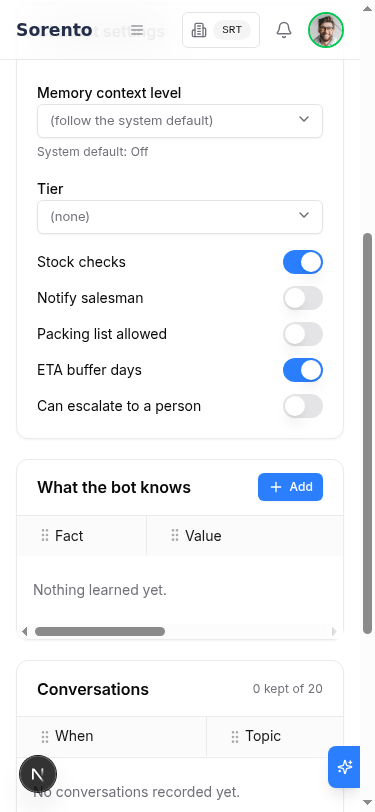
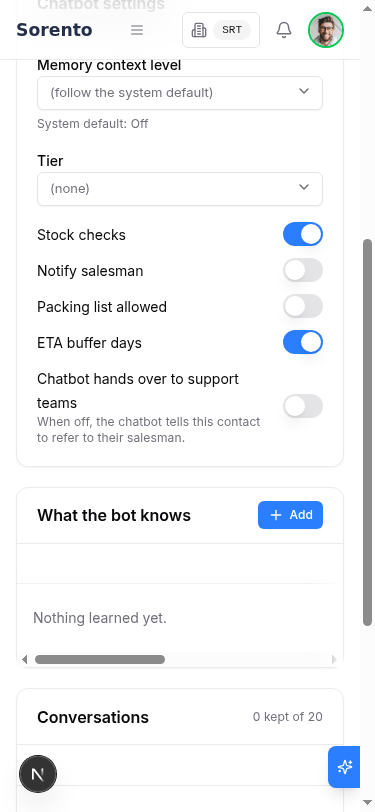
feat(chatbot): switch reads "Chatbot hands over to support teams" with the owner-approved helper text
Owner hand test of #1406 (1 Oct 2026): behaviour PASS; "Can escalate to a person" read
oddly, since referring to the salesman is also an escalation. Label and helper only, no
behaviour change: SwitchRow gains an optional hint line in the card's helper-text style.
Tests, plan, script and browser evidence (1280, 375) follow the new wording.

Claude-Session: https://claude.ai/code/session_01ScvJc6pUJehmgpENkPLwCa

diff --git a/sorento_crm_frontend/app/(protected)/user-management/contacts/[id]/components/ContactChatbotSection.test.tsx b/sorento_crm_frontend/app/(protected)/user-management/contacts/[id]/components/ContactChatbotSection.test.tsx
@@ -270,14 +270,24 @@ describe('ContactChatbotSection - ETA buffer days switch (#1328)', () => {
 });
 
 /**
- * ESCALATION-CONTROL (owner change, 30 Sep 2026): one per-contact switch, "Can escalate to
- * a person", default on; access types no longer decide it.
+ * ESCALATION-CONTROL (owner change, 30 Sep 2026): one per-contact switch, "Chatbot hands
+ * over to support teams" (owner-approved label, 1 Oct 2026), default on; access types no
+ * longer decide it.
  */
-describe('ContactChatbotSection - Can escalate to a person switch', () => {
+describe('ContactChatbotSection - Chatbot hands over to support teams switch', () => {
+  it('shows the owner-approved helper text under the switch', () => {
+    useContactChatbotProfile.mockReturnValue({ data: BASE_PROFILE, isLoading: false, isError: false });
+    renderWithClient(<ContactChatbotSection contactId="c1" />);
+    expect(
+      screen.getByText('When off, the chatbot tells this contact to refer to their salesman.'),
+    ).toBeInTheDocument();
+    expect(screen.queryByText('Can escalate to a person')).not.toBeInTheDocument();
+  });
+
   it('renders checked for a contact that may escalate', () => {
     useContactChatbotProfile.mockReturnValue({ data: BASE_PROFILE, isLoading: false, isError: false });
     renderWithClient(<ContactChatbotSection contactId="c1" />);
-    expect(screen.getByLabelText('Can escalate to a person')).toHaveAttribute('data-state', 'checked');
+    expect(screen.getByLabelText('Chatbot hands over to support teams')).toHaveAttribute('data-state', 'checked');
   });
 
   it('renders unchecked for a blocked contact', () => {
@@ -287,13 +297,13 @@ describe('ContactChatbotSection - Can escalate to a person switch', () => {
       isError: false,
     });
     renderWithClient(<ContactChatbotSection contactId="c1" />);
-    expect(screen.getByLabelText('Can escalate to a person')).toHaveAttribute('data-state', 'unchecked');
+    expect(screen.getByLabelText('Chatbot hands over to support teams')).toHaveAttribute('data-state', 'unchecked');
   });
 
   it('unticking saves through its own mutation, never the card save (security review S3)', () => {
     useContactChatbotProfile.mockReturnValue({ data: BASE_PROFILE, isLoading: false, isError: false });
     renderWithClient(<ContactChatbotSection contactId="c1" />);
-    fireEvent.click(screen.getByLabelText('Can escalate to a person'));
+    fireEvent.click(screen.getByLabelText('Chatbot hands over to support teams'));
     expect(escalationMutate).toHaveBeenCalledTimes(1);
     expect(escalationMutate.mock.calls[0][0]).toBe(false);
     expect(mutate).not.toHaveBeenCalled();

diff --git a/sorento_crm_frontend/app/(protected)/user-management/contacts/[id]/components/ContactChatbotSection.tsx b/sorento_crm_frontend/app/(protected)/user-management/contacts/[id]/components/ContactChatbotSection.tsx
@@ -96,21 +96,27 @@ const TIER_OPTIONS = [
 function SwitchRow({
   id,
   label,
+  hint,
   checked,
   disabled,
   onCheckedChange,
 }: {
   id: string;
   label: string;
+  /** One line under the label, the card's helper-text style. */
+  hint?: string;
   checked: boolean;
   disabled?: boolean;
   onCheckedChange: (checked: boolean) => void;
 }) {
   return (
     <div className="flex items-center justify-between gap-4">
-      <Label htmlFor={id} className="cursor-pointer font-normal">
-        {label}
-      </Label>
+      <div className="space-y-0.5">
+        <Label htmlFor={id} className="cursor-pointer font-normal">
+          {label}
+        </Label>
+        {hint ? <p className="text-xs text-muted-foreground">{hint}</p> : null}
+      </div>
       <Switch
         id={id}
         checked={checked}
@@ -232,7 +238,9 @@ function ChatbotSettingsCard({
           />
           <SwitchRow
             id="contact-chatbot-escalation"
-            label="Can escalate to a person"
+            label="Chatbot hands over to support teams"
+            // Owner-approved wording (1 Oct 2026, hand test of #1406).
+            hint="When off, the chatbot tells this contact to refer to their salesman."
             checked={profile.escalation_allowed}
             disabled={save.isPending || saveEscalation.isPending}
             onCheckedChange={(checked) => saveEscalation.mutate(checked)}

diff --git a/sorento_crm_frontend/app/(protected)/user-management/contacts/[id]/services/contactChatbotService.ts b/sorento_crm_frontend/app/(protected)/user-management/contacts/[id]/services/contactChatbotService.ts
@@ -213,7 +213,7 @@ export async function saveContactChatbotProfile(
 }
 
 /**
- * ESCALATION-CONTROL: "Can escalate to a person", saved on its own - the body carries this
+ * ESCALATION-CONTROL: "Chatbot hands over to support teams", saved on its own - the body carries this
  * one key, and the route leaves every field it does not name alone.
  */
 export async function saveContactEscalation(contactId: string, allowed: boolean): Promise<ContactChatbotProfile> {

diff --git a/sorento_crm_frontend/app/(protected)/user-management/contacts/[id]/hooks/useContactChatbot.ts b/sorento_crm_frontend/app/(protected)/user-management/contacts/[id]/hooks/useContactChatbot.ts
@@ -48,7 +48,7 @@ export function useSaveContactChatbotProfile(contactId: string) {
 }
 
 /**
- * ESCALATION-CONTROL: the "Can escalate to a person" switch's own save (only that key goes
+ * ESCALATION-CONTROL: the "Chatbot hands over to support teams" switch's own save (only that key goes
  * over the wire), with the same cache handling as the card's save.
  */
 export function useSaveContactEscalation(contactId: string) {

diff --git a/sorento_crm_backend/tests/chatbot/test_escalation_control.py b/sorento_crm_backend/tests/chatbot/test_escalation_control.py
@@ -52,7 +52,7 @@ def _contact_pk(session_factory) -> str:
 
 
 def _set_flag(session_factory, allowed: bool) -> str:
-    """The contact page's "Can escalate to a person" switch, set on the one row."""
+    """The contact page's "Chatbot hands over to support teams" switch, set on the one row."""
     db = session_factory()
     pk = db.execute(
         text("SELECT id FROM respond_contacts WHERE respond_io_id = :c"), {"c": str(CONTACT_ID)}

diff --git a/sorento_crm_backend/app/api/v1/user_management/contacts.py b/sorento_crm_backend/app/api/v1/user_management/contacts.py
@@ -279,7 +279,7 @@ class ContactChatbotUpdate(BaseModel):
     packing_list_allowed: bool | None = None
     # Issue #1328: absent = leave alone.
     chatbot_eta_offset_applied: bool | None = None
-    # ESCALATION-CONTROL: "Can escalate to a person". Absent = leave alone.
+    # ESCALATION-CONTROL: "Chatbot hands over to support teams". Absent = leave alone.
     escalation_allowed: bool | None = None
 
 

diff --git a/sorento_crm_backend/tests/chatbot/test_escalation_control_api.py b/sorento_crm_backend/tests/chatbot/test_escalation_control_api.py
@@ -1,4 +1,4 @@
-"""ESCALATION-CONTROL: the contact's "Can escalate to a person" flag over the API.
+"""ESCALATION-CONTROL: the contact's "Chatbot hands over to support teams" flag over the API.
 
 Owner change, 30 Sep 2026: one per-contact flag, `respond_contacts.escalation_allowed`
 (default true). `PUT .../contacts/{id}/chatbot` takes it (absent = leave alone, the rule

diff --git a/documentation/plans/chatbot/PLAN-escalation-control-30sep.md b/documentation/plans/chatbot/PLAN-escalation-control-30sep.md
@@ -7,7 +7,7 @@ Owner: "we need to be able to control each contact that they cannot access the e
 cannot force escalate, won't be offered escalation; this is for dealer".
 
 ## Journey
-Staff untick "Can escalate to a person" on a contact's Chatbot card. From then on, that contact
+Staff untick "Chatbot hands over to support teams" on a contact's Chatbot card. From then on, that contact
 is never offered a hand-off to a person (no "Would you like me to escalate to ... team?", no
 routing picker), and asking for a person or answering an old offer gets "Please refer to your
 salesman." with nothing handed over. When that contact asks for an order or product the bot
@@ -39,7 +39,7 @@ salesman." Every other contact behaves as before.
 - Backstop: `escalation_control.strip_offers` runs in `engine._run_answer`, `run_tail` and the
   casual lane for a blocked contact, so an offer sentence, routing picker or armed question from
   any composer is removed and the salesman line stands in its place.
-- UI: Contact > Chatbot card, "Can escalate to a person" switch (the card's existing
+- UI: Contact > Chatbot card, "Chatbot hands over to support teams" switch (the card's existing
   `SwitchRow`), saved by `PUT /contacts/{id}/chatbot` (`escalation_allowed`, absent = leave
   alone, guarded by `user_management.contacts.edit`).
 
@@ -59,7 +59,7 @@ design and are superseded by the owner change.
 | # | Decision | Owner answer |
 | --- | --- | --- |
 | R-a | Blocked reply | "Please refer to your salesman." (`turn/task.py:42` REFER_TO_SALESMAN), ruling (b) |
-| Q1 | Scope and label | Covers every hand-off (the engine guard is on the branch kind whatever the team, `engine.py:5258`), so the label is "Can escalate to a person" |
+| Q1 | Scope and label | Covers every hand-off (the engine guard is on the branch kind whatever the team, `engine.py:5258`), so the label is "Chatbot hands over to support teams" |
 | Q2 | A blocked miss | Say what could not be found (the order no. or product), then "Please refer to your salesman."; never the bare line. Measured before the change: `Couldn't find: "SO999001" (order).` with nothing after it |
 | Q5 | Unreadable flag | Fail open (allowed): OK |
 | Q6 | Reporting | Keep branch kind out_of_scope, lane escalation_barred; the n8n cutover's one-time SLA precondition (`documentation/plans/chatbot/n8n-changes.md:586-598`) excludes that lane |
@@ -68,5 +68,6 @@ design and are superseded by the owner change.
 | Owner change | Control | Per contact, not by access type |
 | Backfill | Existing and new contacts | All allowed (TRUE); blocking only by unticking the contact page |
 | Q3, Q4 | Access-type merge, new dealer types | Superseded by the owner change |
+| Label (hand test, 1 Oct) | Switch wording | "Chatbot hands over to support teams", helper "When off, the chatbot tells this contact to refer to their salesman." (owner: the first label read oddly, since referring to the salesman is also an escalation). Behaviour PASS on the owner's hand test |
 
 See `escalation-control-acceptance-criteria.md`.

diff --git a/laneboard/scripts/1406.md b/laneboard/scripts/1406.md
@@ -12,9 +12,9 @@ crew test copy
 
 ## Steps
 
-1. From the sidebar open Users & Access > People > Internal Users, open DEALER, open the Chatbot tab. Read the "Can escalate to a person" switch.
+1. From the sidebar open Users & Access > People > Internal Users, open DEALER, open the Chatbot tab. Read the "Chatbot hands over to support teams" switch.
 2. On the Chatbot Console, as DEALER, ask for order `SO999001`.
-3. On DEALER's Chatbot tab, untick "Can escalate to a person". Reload the page and read the switch.
+3. On DEALER's Chatbot tab, untick "Chatbot hands over to support teams". Reload the page and read the switch.
 4. On the Chatbot Console, as DEALER, ask for order `SO999001` again.
 5. As DEALER, ask for product `ZZTNOPE9`.
 6. As DEALER, send "can I talk to a human".
@@ -23,7 +23,7 @@ crew test copy
 
 ## Expected
 
-1. Step 1: the switch is on (checked). There is no "Inherited" line and no access-type wording.
+1. Step 1: the switch "Chatbot hands over to support teams" is on (checked), with the line "When off, the chatbot tells this contact to refer to their salesman." under it. There is no "Inherited" line and no access-type wording.
 2. Step 2: `Couldn't find: "SO999001" (order). Would you like me to escalate to customer service team?` (unchanged behaviour while the switch is on). These exact texts were measured on an empty sandbox database; if the dev data answers with a did-you-mean list instead, the blocked replies in steps 4 and 5 keep that list and end with `Please refer to your salesman.` in place of the escalate question.
 3. Step 3: after the reload the switch stays off.
 4. Step 4: exactly `Couldn't find: "SO999001" (order). Please refer to your salesman.` No escalation question is left open (the console's open question is empty or not an escalation), no "Please choose who to route to" list.

diff --git a/documentation/plans/chatbot/evidence/escalation-control/README.md b/documentation/plans/chatbot/evidence/escalation-control/README.md
@@ -16,9 +16,9 @@ after each navigation.
 
 | Shot | Width | What it shows |
 | --- | --- | --- |
-| 01 | 1280 | Mr Loo's Chatbot card: "Can escalate to a person" switch ON (backfilled allowed; his dealer types do not block him) |
+| 01 | 1280 | Mr Loo's Chatbot card: "Chatbot hands over to support teams" ON (backfilled allowed; his dealer types do not block him), helper "When off, the chatbot tells this contact to refer to their salesman." under it (owner-approved wording, 1 Oct 2026) |
 | 02 | 1280 | After unticking and a page reload: the switch reads OFF; the API read `escalation_allowed: false` |
-| 03 | 375 | The same card at 375: nothing clipped, page scrollWidth 360; ticking it at 375 saved `true` (API) |
+| 03 | 375 | The same card at 375: label and helper wrap inside the row, nothing clipped, page scrollWidth 360; ticking it at 375 saved `true` (API) |
 | 04 | 1280 | Edit Mocha Dealer in Contact Access Types: only "Active", no escalation setting (the access-type files match main) |
 
 Not covered here: the Chatbot Console needs a live parser model key, which this sandbox lacks

diff --git a/documentation/plans/chatbot/escalation-control-acceptance-criteria.md b/documentation/plans/chatbot/escalation-control-acceptance-criteria.md
@@ -27,5 +27,5 @@ Owner change and rulings, 30 Sep 2026. Every AC names its test.
 8. **[BE]** `PUT /contacts/{id}/chatbot` sets `escalation_allowed` (absent leaves it alone) behind
    `user_management.contacts.edit`; every contact read carries it.
    `tests/chatbot/test_escalation_control_api.py`
-9. **[FE]** The contact's Chatbot card shows a "Can escalate to a person" switch, checked by
+9. **[FE]** The contact's Chatbot card shows a "Chatbot hands over to support teams" switch, checked by
    default; unticking saves `escalation_allowed: false`. `ContactChatbotSection.test.tsx`
